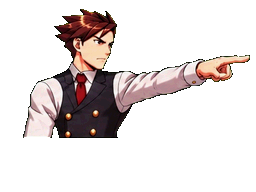
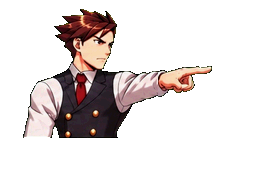
Justo: brazo más corto al apuntar y animación ajustada
Claude-Session: https://claude.ai/code/session_01Xb94a44mJyTYV8GKKMfxw2

Changed region(s): [[0.5938, 0.2812, 1.0, 0.5]]

diff --git a/prueba-final.html b/prueba-final.html
@@ -5,7 +5,7 @@
 <meta name="viewport" content="width=device-width, initial-scale=1">
 <title>ACTA CERO — Prueba del final</title>
 <link href="https://fonts.googleapis.com/css2?family=Bebas+Neue&family=Pixelify+Sans:wght@400;700&display=swap" rel="stylesheet">
-<link rel="stylesheet" href="css/style.css?v=89">
+<link rel="stylesheet" href="css/style.css?v=90">
 </head>
 <body>
 <div id="ds">
@@ -50,16 +50,16 @@
     <div class="hint">Activa el sonido · toca la pantalla de abajo para avanzar</div>
   </div>
 </div>
-<script src="js/casos.js?v=89"></script>
-<script src="casos/caso1.js?v=89"></script>
-<script src="casos/caso2.js?v=89"></script>
-<script src="js/audio.js?v=89"></script>
-<script src="js/sprites.js?v=89"></script>
-<script src="assets/hd/atlas.js?v=89"></script>
-<script src="js/assets.js?v=89"></script>
-<script src="js/engine.js?v=89"></script>
-<script src="js/investigacion.js?v=89"></script>
-<script src="js/musica.js?v=89"></script>
+<script src="js/casos.js?v=90"></script>
+<script src="casos/caso1.js?v=90"></script>
+<script src="casos/caso2.js?v=90"></script>
+<script src="js/audio.js?v=90"></script>
+<script src="js/sprites.js?v=90"></script>
+<script src="assets/hd/atlas.js?v=90"></script>
+<script src="js/assets.js?v=90"></script>
+<script src="js/engine.js?v=90"></script>
+<script src="js/investigacion.js?v=90"></script>
+<script src="js/musica.js?v=90"></script>
 <script>
 /* Versión de prueba: salta directo al veredicto y la escena final del Caso 1. No toca la partida guardada. */
 saveGame=function(){ return true; }; clearSave=function(){};

diff --git a/index.html b/index.html
@@ -5,7 +5,7 @@
 <meta name="viewport" content="width=device-width, initial-scale=1">
 <title>ACTA CERO</title>
 <link href="https://fonts.googleapis.com/css2?family=Bebas+Neue&family=Pixelify+Sans:wght@400;700&display=swap" rel="stylesheet">
-<link rel="stylesheet" href="css/style.css?v=89">
+<link rel="stylesheet" href="css/style.css?v=90">
 </head>
 <body>
 <div id="ds">
@@ -48,15 +48,15 @@
     <div class="hint">Activa el sonido · toca la pantalla de abajo para avanzar</div>
   </div>
 </div>
-<script src="js/casos.js?v=89"></script>
-<script src="casos/caso1.js?v=89"></script>
-<script src="casos/caso2.js?v=89"></script>
-<script src="js/audio.js?v=89"></script>
-<script src="js/sprites.js?v=89"></script>
-<script src="assets/hd/atlas.js?v=89"></script>
-<script src="js/assets.js?v=89"></script>
-<script src="js/engine.js?v=89"></script>
-<script src="js/investigacion.js?v=89"></script>
-<script src="js/musica.js?v=89"></script>
+<script src="js/casos.js?v=90"></script>
+<script src="casos/caso1.js?v=90"></script>
+<script src="casos/caso2.js?v=90"></script>
+<script src="js/audio.js?v=90"></script>
+<script src="js/sprites.js?v=90"></script>
+<script src="assets/hd/atlas.js?v=90"></script>
+<script src="js/assets.js?v=90"></script>
+<script src="js/engine.js?v=90"></script>
+<script src="js/investigacion.js?v=90"></script>
+<script src="js/musica.js?v=90"></script>
 </body>
 </html>

diff --git a/js/engine.js b/js/engine.js
@@ -824,7 +824,7 @@ function renderSprite(){
 /* Animaciones de entrada/salida de una pose (cuadros sueltos de ART que se pasan antes de quedar en la pose).
    Justo: levanta el brazo al apuntar y lo baja al terminar; se pone los lentes y toma el papel. */
 const TRANS={ ines:{
-  point:{in:["ap2","ap3","ap4","ap5","ap6","ap7","ap8"], out:["ap12","ap13","ap14","ap15","ap16"], ms:45},
+  point:{in:["ap2","ap3","ap4","ap5"], out:["ap13","ap14","ap15","ap16"], ms:55},   // el brazo de «point» se acortó: la animación no pasa de ese largo
   papel:{in:["ld1","ld2","ld3","ld4"], out:["ld4","ld3","ld2","ld1"], ms:170},
   papelThink:{in:["ld1","ld2","ld3","ld4"], out:["ld4","ld3","ld2","ld1"], ms:170} }};
 const RAW={}; function rawImg(who,k){ const key=who+"/"+k; if(!RAW[key] && String(ART[who][k]).startsWith("atlas:")) RAW[key]=atlasFrame(ART[who][k]);

diff --git a/herramientas/justo_brazo.py b/herramientas/justo_brazo.py
@@ -1,0 +1,18 @@
+"""Acorta el brazo de Justo en la pose «point» (el dibujo original lo trae demasiado largo).
+Saca un tramo del antebrazo (columnas X1..X2) y junta la mano con el resto, bajándola lo que sube el brazo.
+Uso (sobre los cuadros originales sin acortar): python3 herramientas/justo_brazo.py point.png pointTalk.png"""
+import sys
+import numpy as np
+from PIL import Image
+X1, X2 = 158, 196
+def acortar(ruta):
+    a=np.array(Image.open(ruta).convert('RGBA')); A=a[:,:,3]>0
+    top=lambda x: np.nonzero(A[:,x])[0].min()
+    dy=int(round(top(X1)-top(X2)))
+    out=a.copy(); out[:,X1:,:]=0
+    der=a[:,X2:,:]; sh=np.zeros_like(der)
+    if dy>0: sh[dy:]=der[:-dy]
+    else: sh=der
+    out[:,X1:X1+der.shape[1]]=sh
+    Image.fromarray(out).save(ruta)
+for r in sys.argv[1:]: acortar(r)
